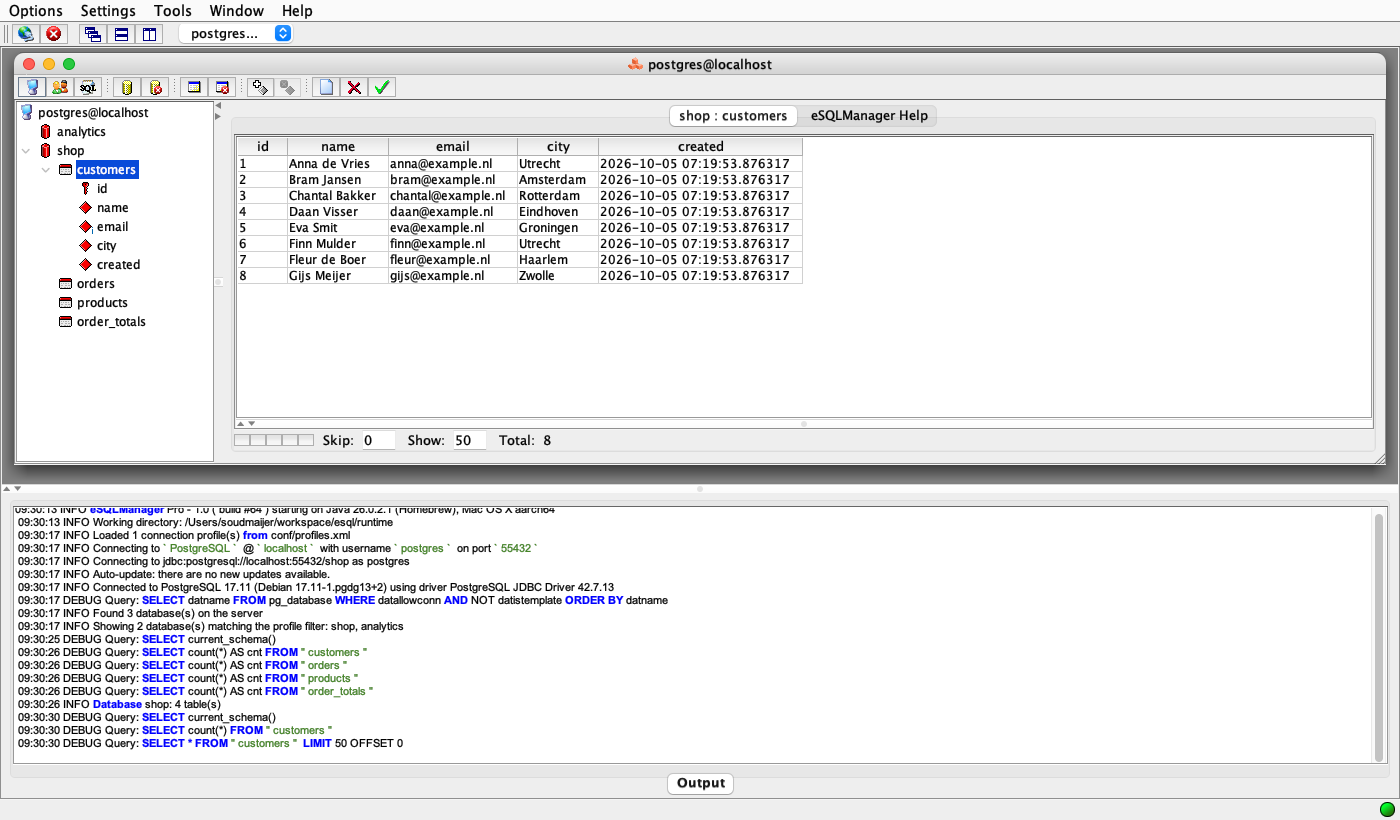
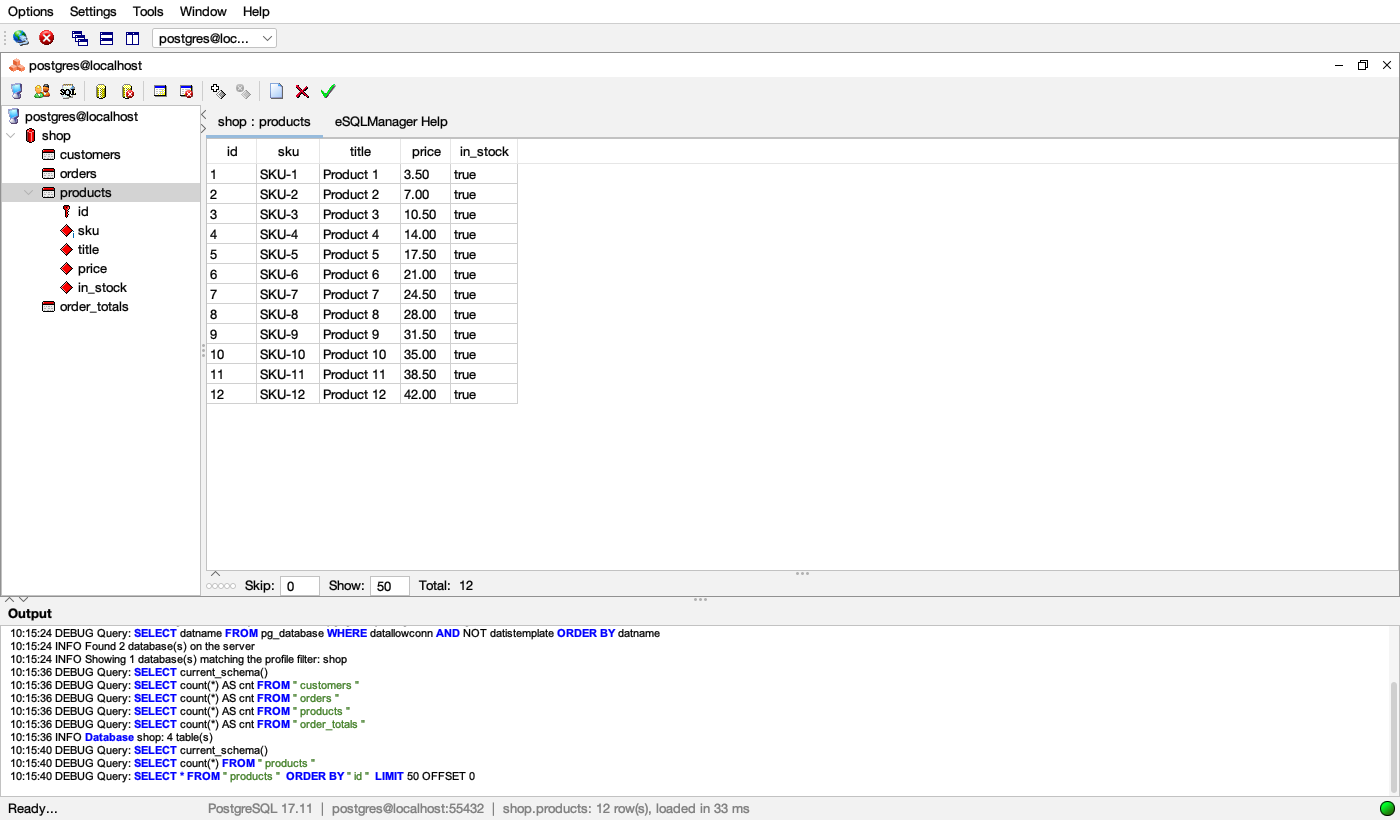
docs: feature list per database, screenshot, changelog and CLAUDE.md with design decisions
Claude-Session: https://claude.ai/code/session_01TpgfMUNA4K1qpyx5mWFodg

Changed region(s): [[0.0, 0.0, 1.0, 1.0]]

diff --git a/CLAUDE.md b/CLAUDE.md
@@ -1,0 +1,78 @@
+# eSQLManager
+
+Java Swing database manager (originally an Errorsoft graduation project, 2002-2003), modernised to run on Java 25 with Maven. It manages MySQL and PostgreSQL; SQL Server and Oracle have a dialect for browsing only.
+
+## Build, run, test
+
+* Maven wrapper only (`./mvnw`), never Gradle. Java 25 (`maven.compiler.release`), sources are UTF-8.
+* Run: `./mvnw exec:java`. The working directory is `runtime/` (see Configuration below).
+* Test: `./mvnw test`. The tests start Postgres 17 and MySQL 8 with Testcontainers and are skipped without Docker.
+* A GUI cannot be started inside the Claude sandbox (no display). Run harnesses with the sandbox disabled, and verify UI work by painting the root pane to a `BufferedImage` in-process.
+
+## Design decisions
+
+### Database differences live in a Dialect
+
+* `domain/dialect/Dialect` is the single place that knows how a server differs: quoting, string literals, DDL for tables, columns and indexes, paging, switching database, listing databases and tables, table maintenance, and exporting a table definition. `AbstractDialect` holds ANSI/JDBC-metadata behaviour, `MySqlDialect` and `PostgresDialect` override what differs.
+* Callers ask the dialect. Never branch on the server type (`if type == MY_SQL`) outside `domain/dialect`. Adding a database means adding a `Dialect`, a `<driver>` section in `runtime/conf/datatypes.xml`, and a case in `Dialects.forType`.
+* Optional functionality is declared with `Dialect.supports(Feature)`; the controllers show a message when a feature is missing.
+* `UserAdmin` (per dialect, from `Dialect.getUserAdmin()`) holds account and privilege management. MySQL accounts are `user@host` and privileges are GRANT/REVOKE; PostgreSQL accounts are roles, global privileges are role attributes, database and table privileges come from the object ACLs.
+* PostgreSQL has one database per connection: `useDatabase` reconnects. The profile's "Database(s)" field is a filter, and its first entry is the database to connect to (default `postgres`). Tables are looked up in `current_schema()`.
+* The primary key index is always presented as `PRIMARY`, whatever name the server gave it. `Dialect` methods take the quoted/unquoted name and quote it themselves.
+
+### SQL safety
+
+* Identifiers go through `dialect.quote(...)`, values through `dialect.literal(...)` (or `DatabaseConnection.formatFieldValue`, which delegates to it). Never concatenate a raw name or value into a statement. MySQL escapes backslashes in literals, PostgreSQL does not, which is why this is per dialect.
+* Metadata lookups use `PreparedStatement` parameters.
+* An empty cell is SQL `NULL`, not the text "null" (`TableData.isNull()`).
+* Paging on PostgreSQL and MySQL orders by the primary key so that rows do not move after an update.
+* A script written by Export switches database with `\connect` on servers that cannot do it in SQL; Import understands it.
+
+### UI
+
+* Look and feel is FlatLaf (`FlatLightLaf`), with the system look and feel as fallback. The native macOS look was far too slow when resizing.
+* Use Swing only, no AWT widgets (`Label`, `Button`, ...). New dialogs use layout managers, not null layouts with absolute bounds.
+* Do not hardcode `Color.white` or `Color.gray`. Take colours from `UIManager`. A read-only `JTextPane` is painted grey by FlatLaf, set its background explicitly.
+* Swing is touched on the event thread. `ESQLManagerUI.print` and `setStatusInfo` marshal themselves with `invokeLater`.
+* The output panel does not wrap lines (re-wrapping a long log made resizing slow), keeps at most 200000 characters, and the split pane uses continuous layout with `resizeWeight` 1.0.
+* The status bar shows the action on the left and, next to it, the server, account and the last thing the active connection did (`ConnectionWindowCC.showStatusInfo`).
+
+### Logging and output
+
+* log4j2 only, never `System.out`/`System.err`. `OutputPanelAppender` shows log lines in the output panel. Query text is logged at `debug` in `nl.errorsoft.esql.data`.
+* Log connection start, server product/version and driver, so the output explains what happened.
+
+### Configuration and resources
+
+* `runtime/` is the working directory: `conf/` (profiles, drivers, datatypes, settings, syntax), `credits.txt`. Code reads `conf/...` relative to the working directory, also in tests (surefire `workingDirectory`).
+* `runtime/conf/profiles.xml` must not contain passwords or local test profiles when committed.
+* JDBC drivers come from Maven Central, no jars in the repository.
+* Images, HTML and `log4j2.xml` are in `src/main/resources`. Images are loaded through `ImageLoader` (cached, paths relative to the classpath root).
+* There is no licensing, registration or auto-update any more; do not reintroduce them.
+
+### Code style
+
+* Match the surrounding code. Most sources use tabs and CRLF line endings; new files use LF. Keep each file's existing line endings when editing.
+* Resources are closed with try-with-resources. No deprecated API in new code (`new Integer`, `Dialog.show()`, ...).
+* No em-dashes in prose or documentation.
+
+## Tests
+
+* `DialectContractTest` runs the same scenarios against every dialect: create and alter tables, indexes, export and import, editing data with hostile text, user management, creating databases. `PostgresDialectTest` and `MySqlDialectTest` supply the container. A new dialect gets a subclass.
+* Prefer a real database over mocks for anything that produces SQL.
+
+## Target architecture (agreed direction, not implemented yet)
+
+The code is still layered by technical type (`gui`, `control`, `domain`, `data`) with domain classes that also run SQL. The agreed target:
+
+* Package by feature (functional packaging), for example `connection`, `database`, `table`, `data` (row editing), `index`, `importexport`, `designer`, `user`, `query`.
+* Inside each feature the layers are strictly UI -> Controller -> Service -> Repository. The UI has no business logic and does not touch JDBC. Controllers translate UI events into service calls. Services hold application logic. Repositories are the only place that runs SQL, and they ask the `Dialect` for the SQL that differs. Dependencies point downwards only.
+* Swing classes only in UI packages. Domain types (`Table`, `TableColumn`, `DatabaseUser`, ...) are plain data without a connection.
+* Do this in steps, one feature at a time, keeping the contract tests green. Start by moving what `Table` does (columns, indexes, data, DDL) into a repository and a service.
+
+## Known technical debt
+
+* Raw `Vector` and other raw types (about 100 lint warnings), `java.util.Observable`/`Observer` for progress reporting.
+* Many dialogs still use null layouts (`ConnectionWindowUI`, `CreateTable`, `IndexesUI`, ...).
+* Domain classes mix data, behaviour and SQL (`Table`, `Database`, `Export`, `Import`, `UDData`).
+* SQL Server and Oracle dialects only browse; their DDL, user management and maintenance are not implemented.

diff --git a/README.md b/README.md
@@ -2,26 +2,48 @@
 
 A graphical database manager written in Java Swing. It started in 2002 as a graduation project and has since been brought up to date: it builds with Maven, runs on Java 25 and talks to current database servers.
 
-![eSQLManager showing the customers table of a PostgreSQL database](docs/screenshot.png)
+![eSQLManager showing the products table of a PostgreSQL database](docs/screenshot.png)
 
 ## Features
 
-- Connect to MySQL, PostgreSQL, Microsoft SQL Server and Oracle, with saved connection profiles and auto-connect.
-- Browse databases, tables, views and columns in a tree, with row counts per table.
-- View, edit, sort and page through table data, and run your own SQL with syntax highlighting.
-- An output panel that follows what the application does: connecting, server version, the queries it runs.
+Each database has its own dialect (`nl.errorsoft.esql.domain.dialect`) that decides how a feature is carried out, so the same feature works on MySQL and PostgreSQL. SQL Server and Oracle only have the features that work through plain JDBC; they have not been tested against a live server recently.
 
-Not every feature is available on every database yet. Each database has its own dialect (`nl.errorsoft.esql.domain.dialect`) that decides what is supported:
-
-| | MySQL | PostgreSQL | SQL Server | Oracle |
+| Feature | MySQL | PostgreSQL | SQL Server | Oracle |
 |---|---|---|---|---|
-| Browse databases, tables and data | yes | yes | yes | yes |
-| Run SQL | yes | yes | yes | yes |
-| User manager, process list | yes | no | no | no |
-| Create and modify tables, indexes | yes | no | no | no |
-| Import, export, database designer | yes | no | no | no |
+| Saved connection profiles with auto-connect | yes | yes | yes | yes |
+| Several connections open at once, tiled or cascaded | yes | yes | yes | yes |
+| JDBC driver configuration | yes | yes | yes | yes |
+| Browse databases, tables, views and columns in a tree | yes | yes | yes | yes |
+| Row count per table | yes | yes | yes | yes |
+| View table data, paged | yes | yes | yes | yes |
+| Sort table data | yes | yes | yes | yes |
+| Edit cell values | yes | yes | yes | yes |
+| Insert rows | yes | yes | yes | yes |
+| Delete rows | yes | yes | yes | yes |
+| Upload and download binary data (blobs) | yes | yes | yes | yes |
+| Run your own SQL with syntax highlighting | yes | yes | yes | yes |
+| Create a database | yes | yes | yes | no |
+| Drop a database | yes | yes | yes | no |
+| Create a table | yes | yes | no | no |
+| Modify a table (rename, comment, storage engine) | yes | yes | no | no |
+| Drop a table | yes | yes | yes | yes |
+| Empty a table | yes | yes | yes | yes |
+| Add, modify and drop columns | yes | yes | no | no |
+| Index manager (primary key, unique, index, fulltext) | yes | yes | no | no |
+| Table maintenance: optimize, analyze | yes | yes (VACUUM, ANALYZE) | no | no |
+| Table maintenance: check, repair | yes | no | no | no |
+| Export as SQL (structure and data) | yes | yes | no | no |
+| Import an SQL script | yes | yes | no | no |
+| Database designer: draw a model and generate it | yes | yes | no | no |
+| User manager: accounts and passwords | yes | yes (roles) | no | no |
+| User manager: privileges per server, database and table | yes | yes | no | no |
+| Process list, with ending a process | yes | yes | no | no |
+| Server status | yes | yes | no | no |
+| Server variables | yes | yes | no | no |
+| Output panel with connection details and executed queries | yes | yes | yes | yes |
+| Status bar with server, account and the last action | yes | yes | yes | yes |
 
-PostgreSQL shows the tables of the connection's current schema (normally `public`). SQL Server and Oracle work through plain JDBC metadata and have not been tested against a live server recently.
+PostgreSQL shows the tables of the connection's current schema (normally `public`), and has no check and repair commands. A PostgreSQL connection is made to one database; opening another database in the tree reconnects.
 
 ## Requirements
 
@@ -67,6 +89,16 @@ docker run -d --name esql-pg -e POSTGRES_PASSWORD=test -p 5432:5432 postgres:17
 
 Start the application, choose **PostgreSQL** as server type, and connect with user `postgres`, password `test` and port `5432`.
 
+## Development
+
+```sh
+./mvnw test
+```
+
+The tests start PostgreSQL 17 and MySQL 8 with Testcontainers, so they need Docker and are skipped without it. They run the same scenarios against every dialect: tables, columns, indexes, export and import, editing data, users and privileges, databases, server status and the process list.
+
+Design decisions and the intended architecture are described in `CLAUDE.md`.
+
 ## Project layout
 
 ```
@@ -77,6 +109,7 @@ src/main/java/nl/errorsoft/esql
   gui/       Swing windows and components
   dbcreator/ the database model designer
 src/main/resources   icons, images, help pages and log4j2.xml
+src/test/java        dialect tests against real servers
 runtime/             configuration the application reads and writes
 ```
 
